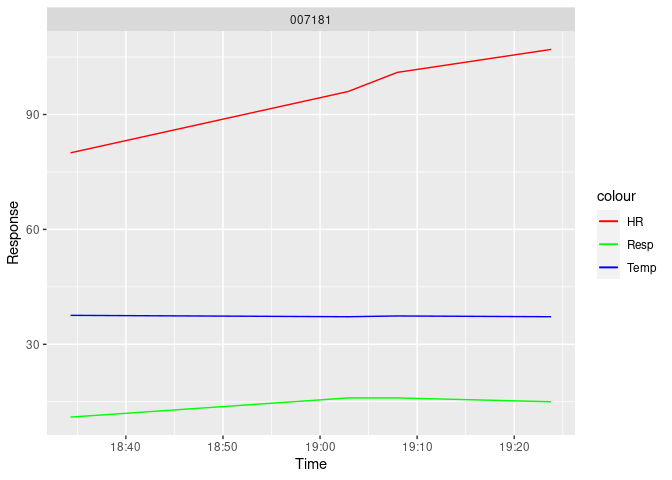
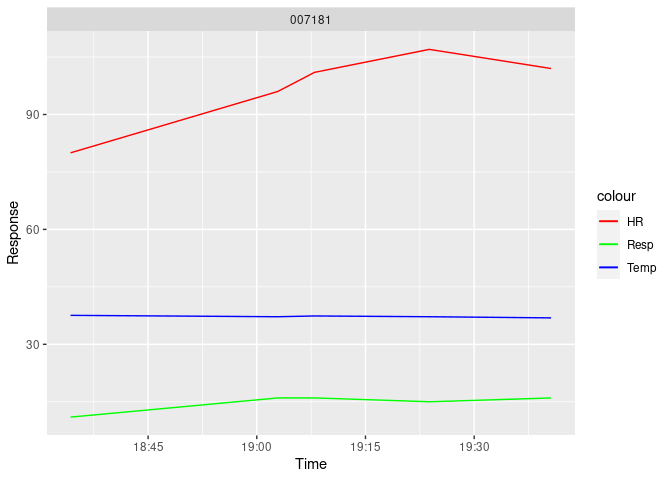
Updated report

diff --git a/AutoSepReport.md b/AutoSepReport.md
@@ -10,7 +10,7 @@ heart rate (HR), temperature (Temp), and respiratory rate (Resp).
 
 ### Report last updated:
 
-2023-04-10 19:31:37
+2023-04-10 20:06:35
 
 ## Physio Measures for Sampled Sepsis Patients
 
@@ -37,4 +37,4 @@ heart rate (HR), temperature (Temp), and respiratory rate (Resp).
 
 | PatientID | Change in Heart Rate | Change in Temperature | Change in Respiratory Rate |
 |:----------|---------------------:|----------------------:|---------------------------:|
-| 007181    |                    6 |                  -0.2 |                         -1 |
+| 007181    |                   -5 |                  -0.3 |                          1 |
